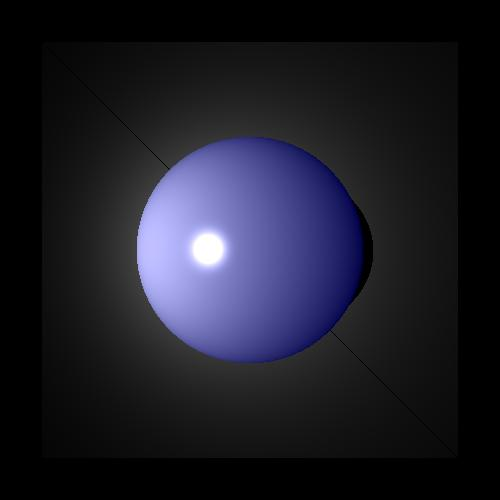
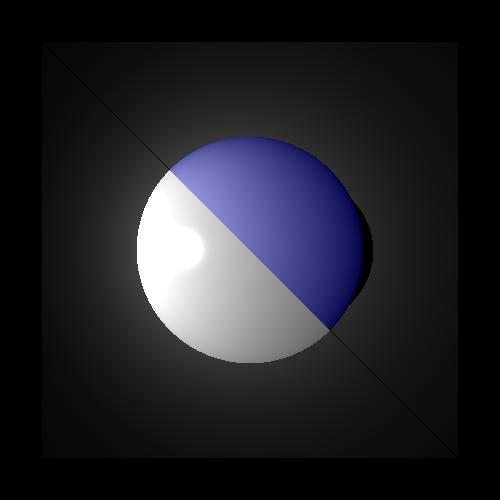
fixes

Changed region(s): [[0.27, 0.33, 0.66, 0.75]]

diff --git a/unittests/RenderTest.java b/unittests/RenderTest.java
@@ -230,8 +230,8 @@ public class RenderTest {
 		Sphere sphere = new Sphere(60, new Point3D(0, 0, 80), new Color(0, 0, 70), new Material(0.9, 0.5, 30,0,0));
 		
 		geometries.add(triangle1);
-		geometries.add(sphere);
 		geometries.add(triangle2);
+		geometries.add(sphere);
 
 		scene.set_geometries(geometries);
 		List<LightSource> lights = new ArrayList<LightSource>();

diff --git a/geometries/Geometries.java b/geometries/Geometries.java
@@ -36,6 +36,7 @@ public class Geometries extends Geometry {
 			intersections = map.get(g);
 			if (intersections != null) {
 				if (!intersections.isEmpty()){
+					pointsIntersections.clear();
 					pointsIntersections.addAll(intersections);
 					findIntersections.put(g, pointsIntersections);
 				}
